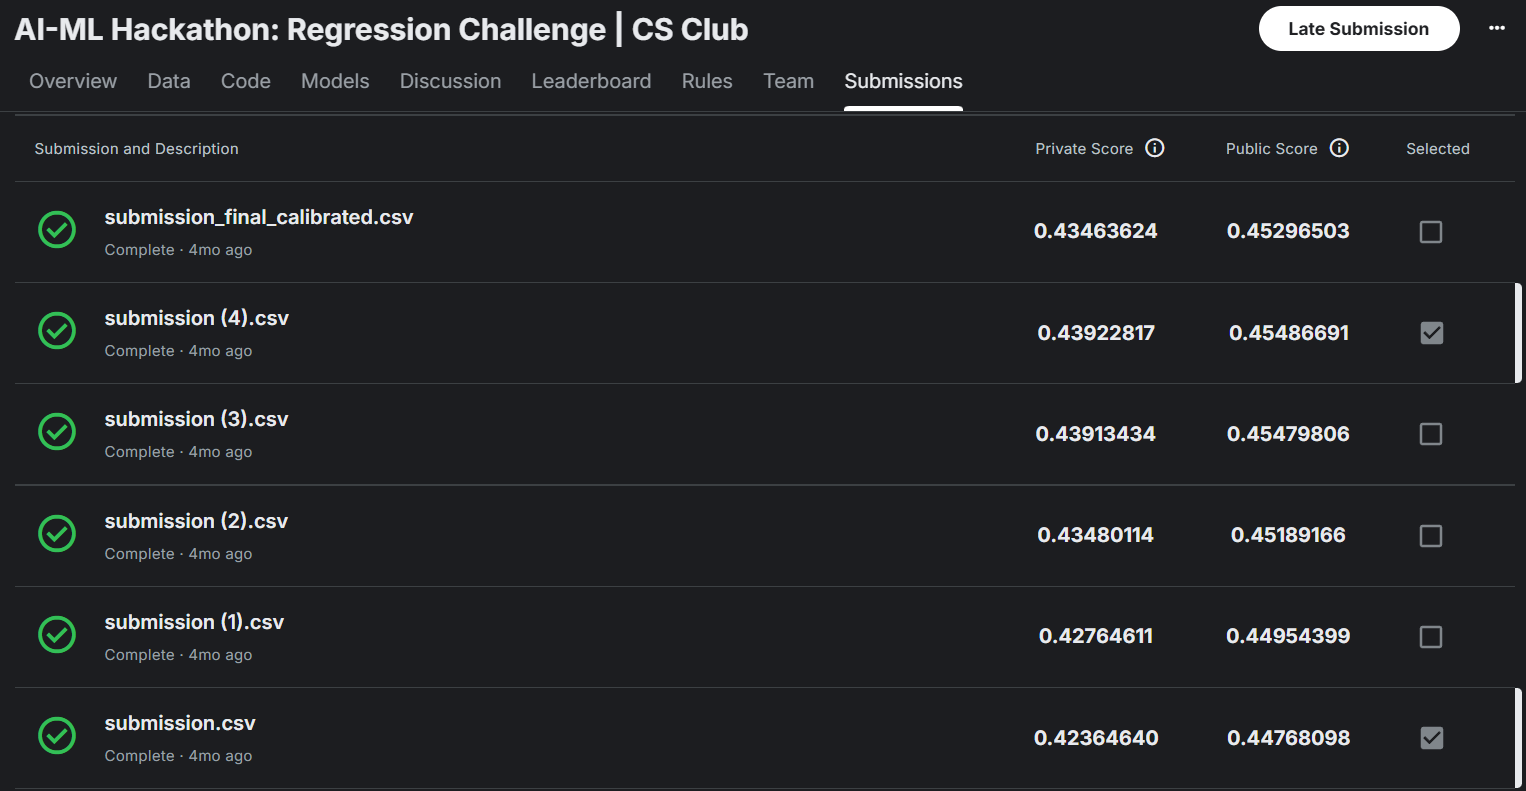
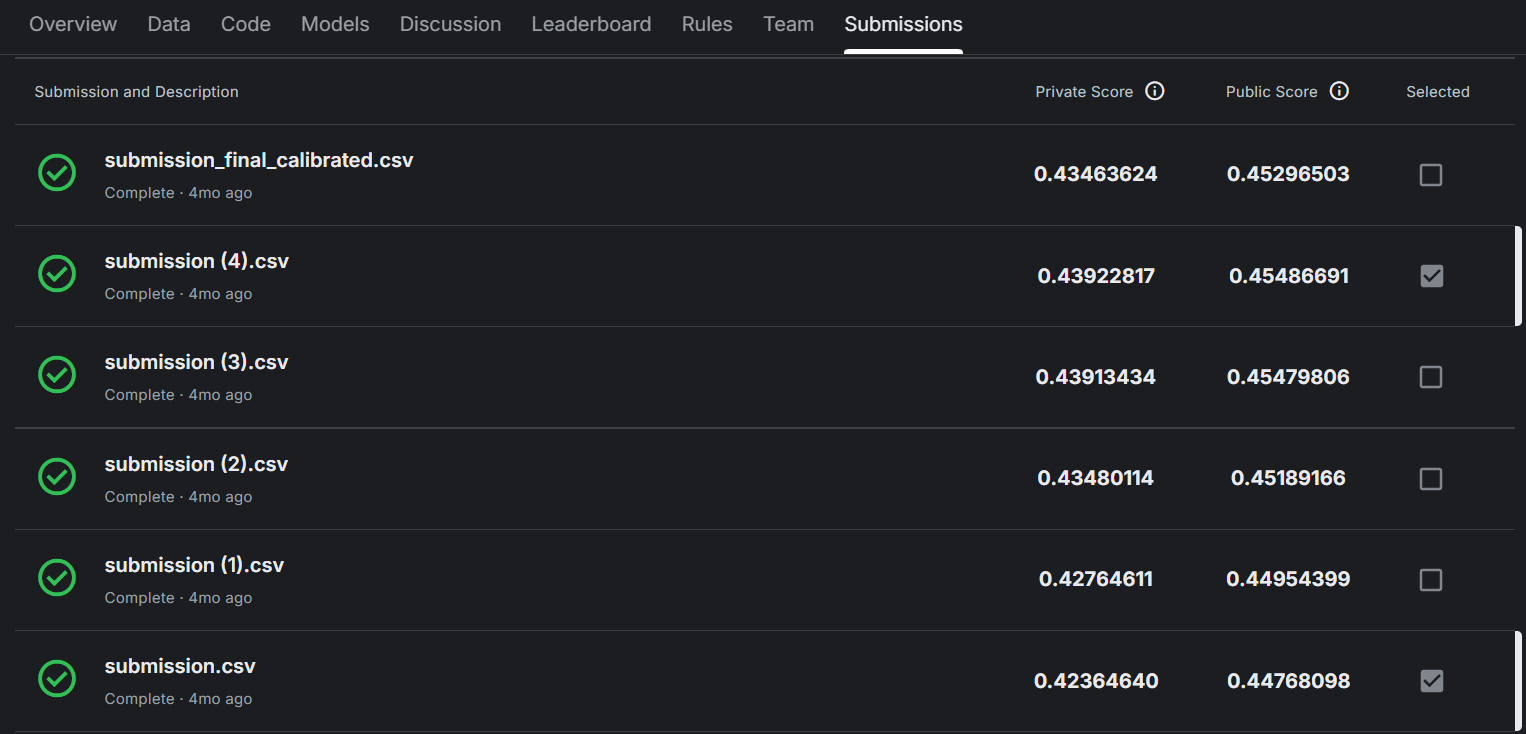
Updated README.md

diff --git a/README.md b/README.md
@@ -1,10 +1,19 @@
 # Regression_signals093
 Built a regression model with 18 numerical features/signals and 3 regimes/categories with sample_weights, noise, and missing data.
 
+## Libraries used
+numpy, pandas, sklearn, xgboost, lightgbm 
+
+## Approach
+
+* Performed 5-fold cross-validation.
+* Trained XGBoost and LightGBM models across 5 seeds.
+* Took the average values to improve robustness and reduce variance.
+
 ## Evaluation
 The evaluation metric combines **Weighted Root Mean Squared Error (WRMSE)** and **Weighted Mean Absolute Error (WMAE)** into a single bounded score called the **Evaluation Stability Score (ESS).**
 
-Higher scores indicate better model performance.
+*Higher scores indicate better model performance.*
 
 ![Evaluation](images/evaluation.png)
 
@@ -35,3 +44,9 @@ Higher scores indicate better model performance.
 
 ![rank_1](images/rank_1.png)
 ![my_score](images/my_score.png)
+
+## Result
+
+* Achieved an ESS score of **0.45486691** with rank of **30/58** on the public leaderboard (20% data).
+
+* Achieved an ESS score of **0.43922817** with rank of **23/58** on the private leaderboard (other 80% data).